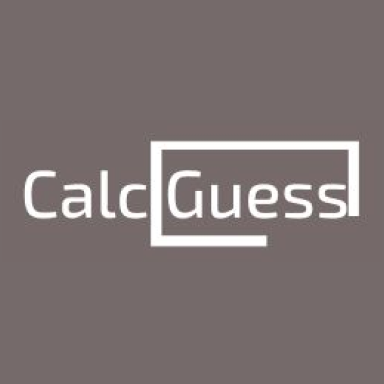
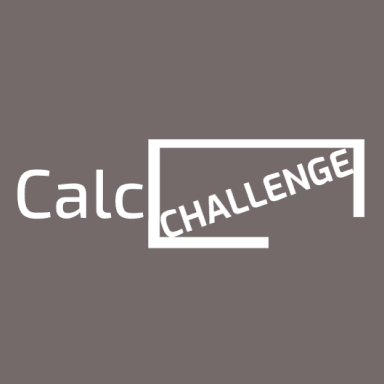
refactor: change from calcGuess to calcChallenge

Changed region(s): [[0.0312, 0.3438, 0.9688, 0.6562]]

diff --git a/src/presentation/components/logo.tsx b/src/presentation/components/logo.tsx
@@ -2,7 +2,7 @@ import { Image } from "react-native"
 
 export function Logo () {
   return (
-    <Image source={require('../../../assets/logo.jpg')}
+    <Image source={require('../../../assets/logo.png')}
       style={{
         width: 190,
         height: 54,

diff --git a/README.md b/README.md
@@ -17,7 +17,7 @@
 
 - Clone o repositório
 
-`git clone https://github.com/samuelfreitas-ao/calc-guess-app.git`
+`git clone https://github.com/samuelfreitas-ao/calc-challenge-app.git`
 
 - Instale as dependências do projecto
 
